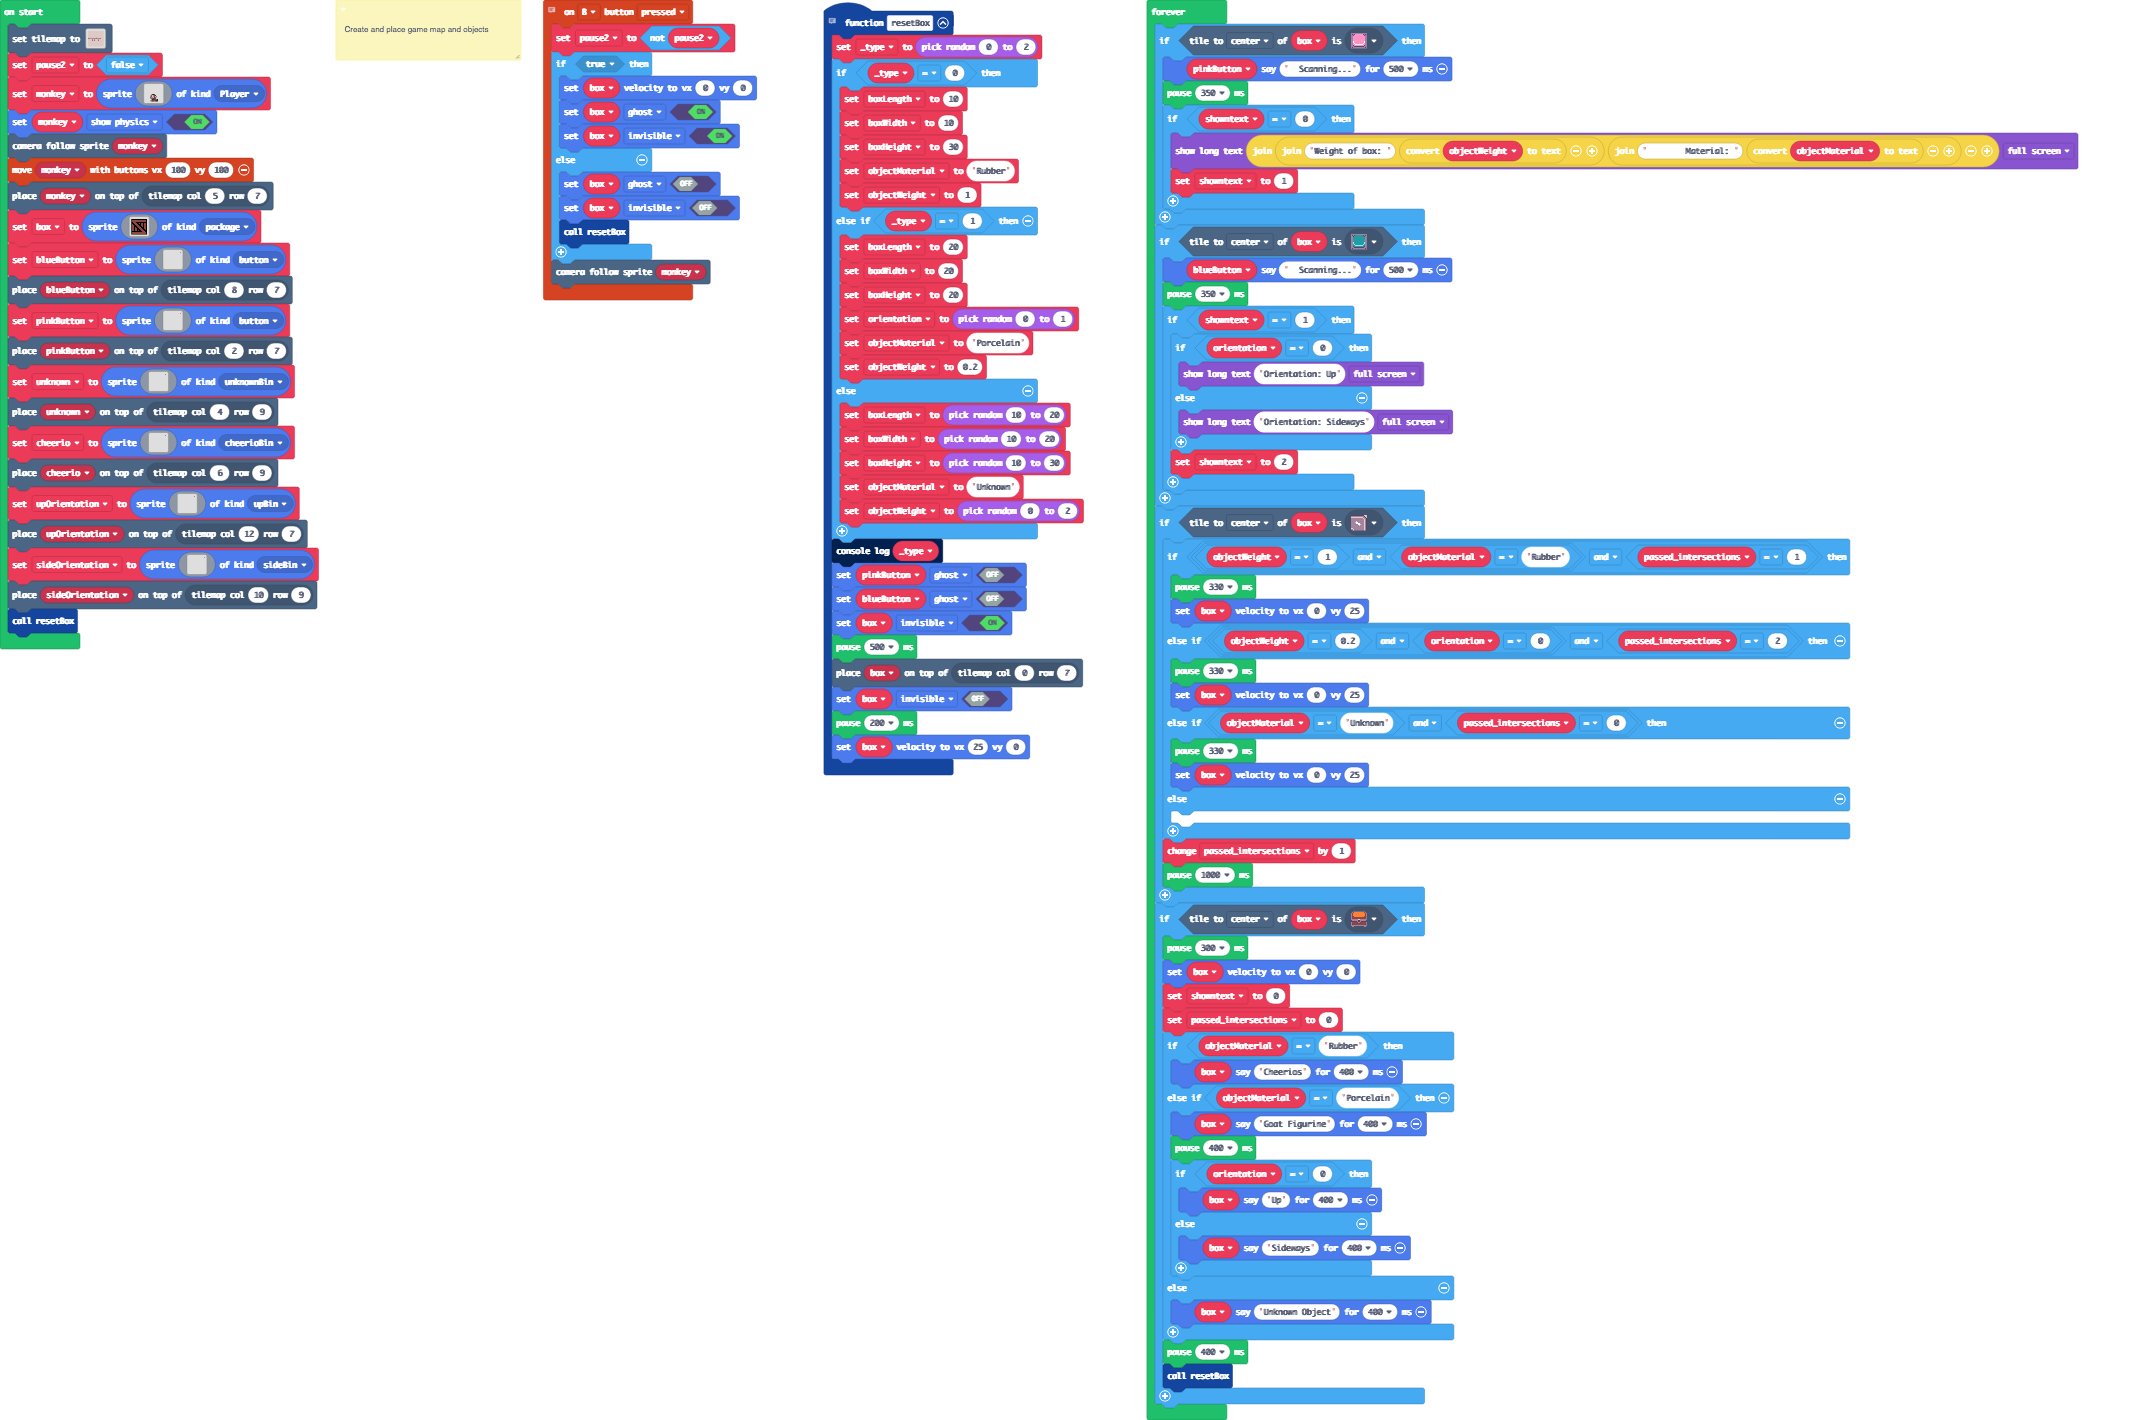
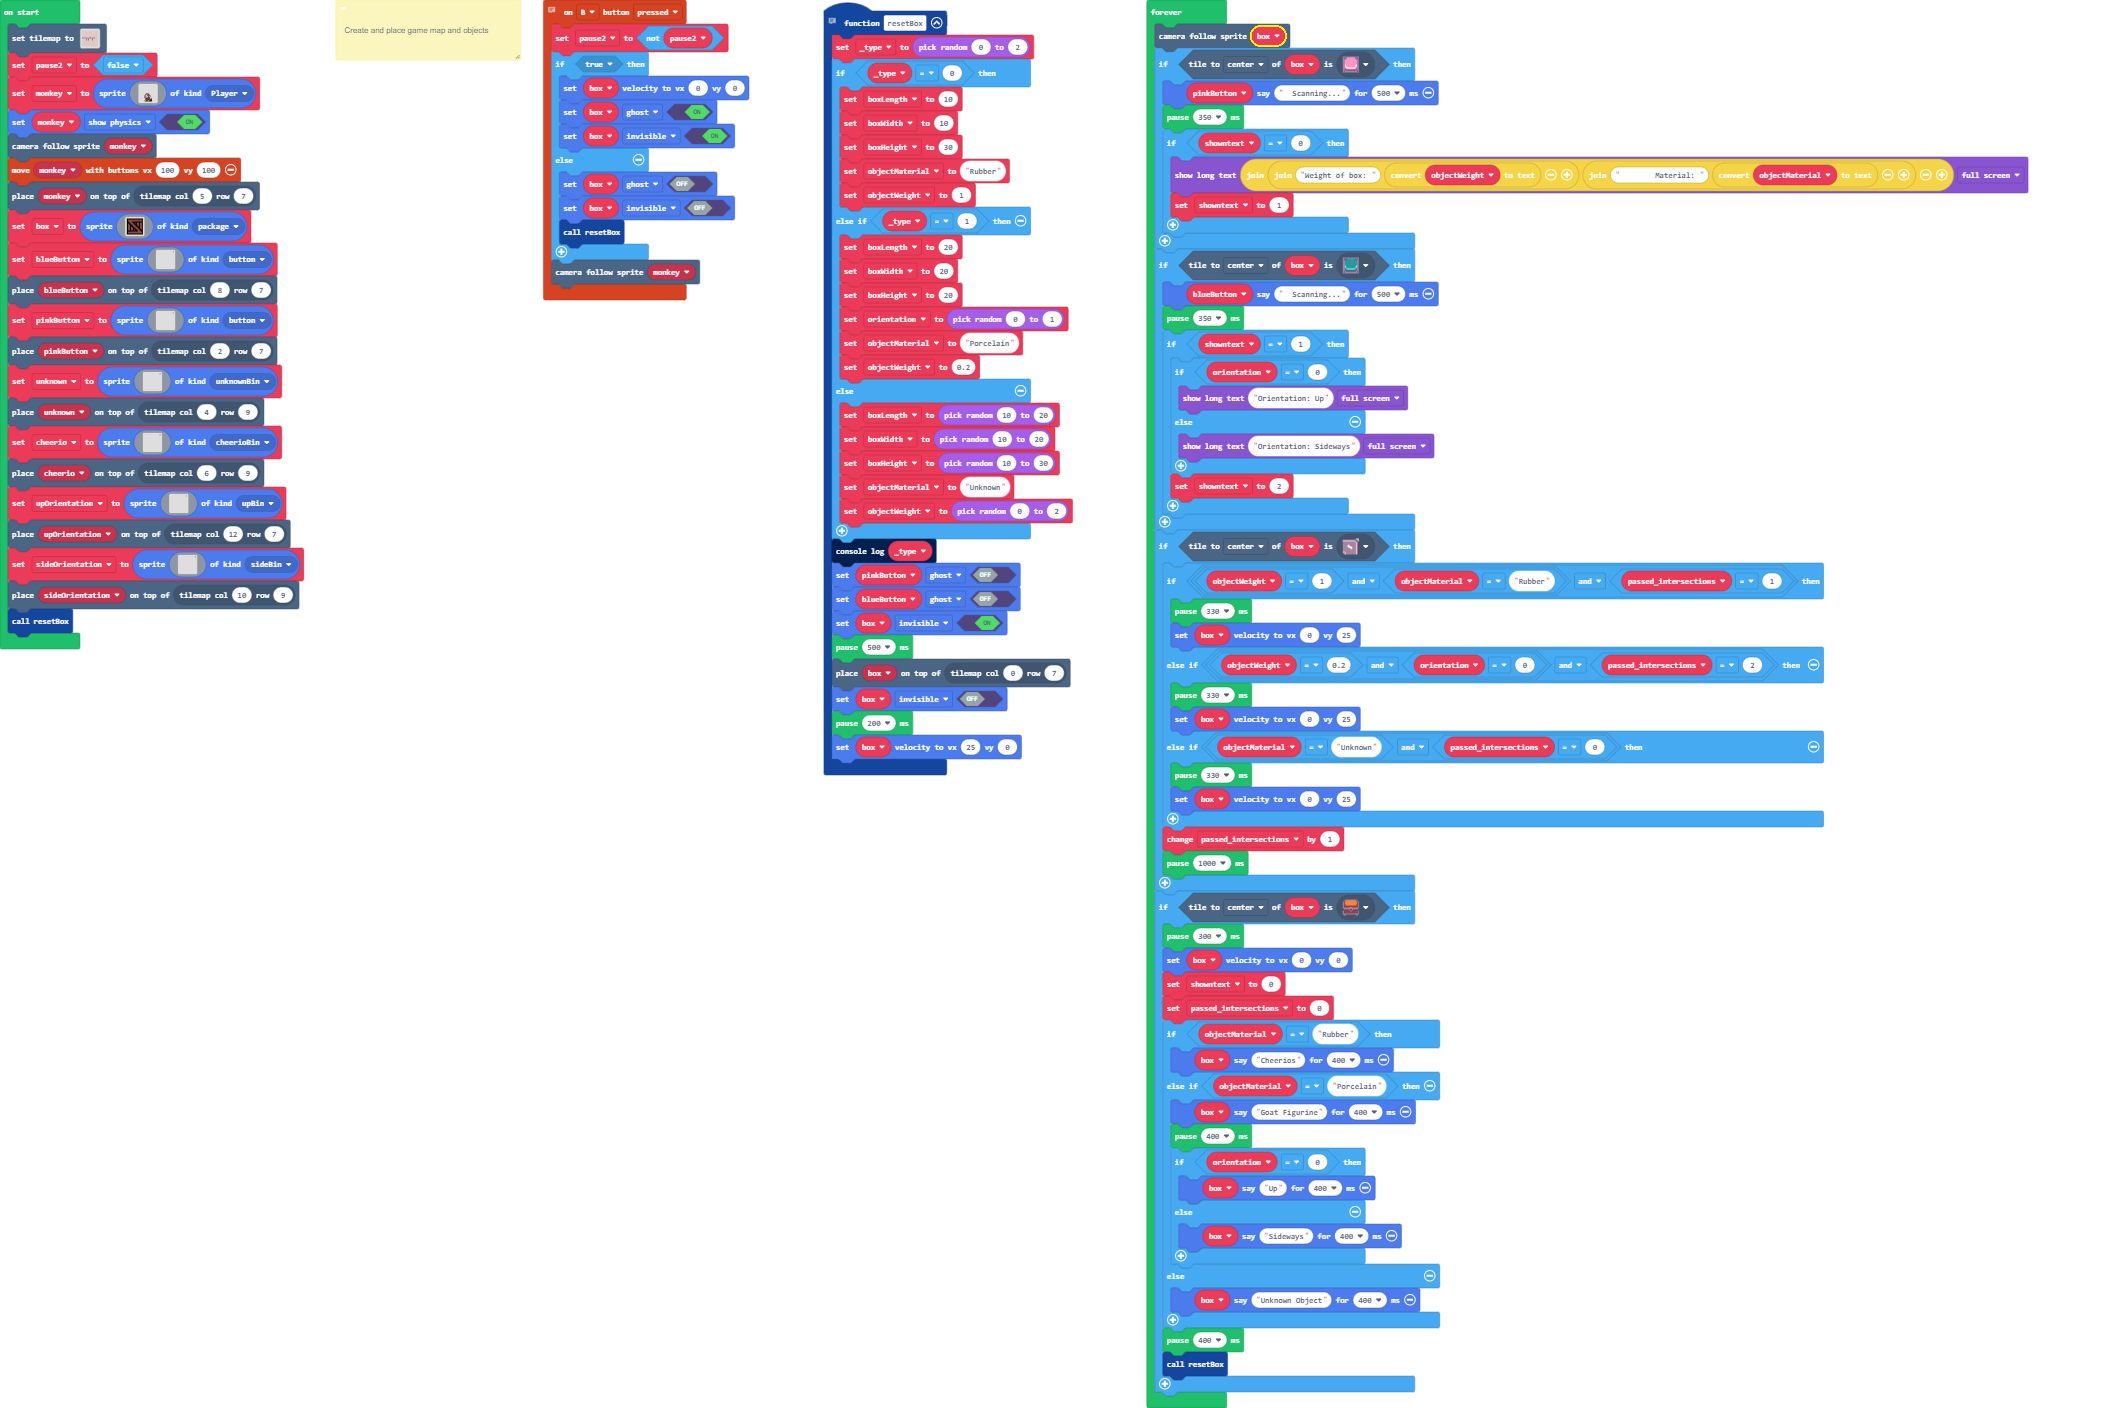
Update main.blocks, main.ts

Changed region(s): [[0.1543, 0.0, 0.9877, 1.0], [0.0, 0.0, 0.1543, 0.4688], [0.6481, 0.9688, 0.679, 1.0]]

diff --git a/main.ts b/main.ts
@@ -263,6 +263,7 @@ let sideOrientation = sprites.create(img`
 tiles.placeOnTile(sideOrientation, tiles.getTileLocation(10, 9))
 resetBox()
 forever(function () {
+    scene.cameraFollowSprite(box)
     if (box.tileKindAt(TileDirection.Center, sprites.dungeon.buttonPink)) {
         pinkButton.say("  Scanning...", 500)
         pause(350)
@@ -293,8 +294,6 @@ forever(function () {
         } else if (objectMaterial == "Unknown" && passed_intersections == 0) {
             pause(330)
             box.setVelocity(0, 25)
-        } else {
-        	
         }
         passed_intersections += 1
         pause(1000)
